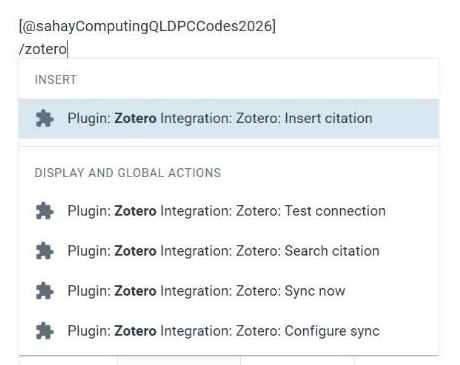
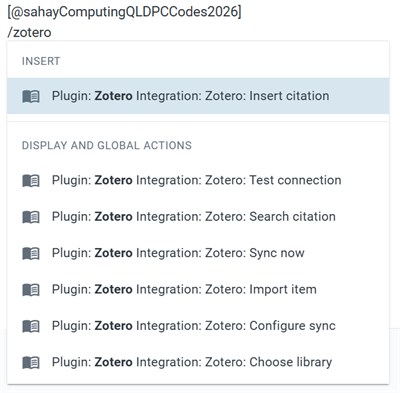
Retake the /zotero menu screenshot with all seven actions
Same framing as the old shot, scaled to 400 px wide (400x393). Swapped into the plugin note's instructions cell in place of the five-action one; checked after a reload: shown at 400 px, still 9 images, code block unchanged.

Changed region(s): [[0.0, 0.0, 0.99, 0.3918], [0.03, 0.5123, 0.96, 0.9945], [0.03, 0.4219, 0.87, 0.4822]]

diff --git a/docs/plugin-instructions.md b/docs/plugin-instructions.md
@@ -251,7 +251,7 @@ instead of embedding it.
 
 | File | Shows | Used for |
 |---|---|---|
-| `desktop-00-zotero-menu.png` | `/zotero` on desktop: Insert citation under INSERT, the other four under DISPLAY AND GLOBAL ACTIONS | Where the actions live |
+| `desktop-00-zotero-menu.png` | `/zotero` on desktop: Insert citation under INSERT, the other six under DISPLAY AND GLOBAL ACTIONS (retaken 2026-10-23, 400 px wide) | Where the actions live |
 | `desktop-01-test-connection.png` | The "Connected as …" alert, username and user ID blanked out | Set up |
 | `desktop-02-citation-picker.png` | Results for "zotero": the reference list open, two items | Cite as you write |
 | `desktop-03-synced-item-note.png` | The qLDPC item note: title, tags, Reference, then — after a divider band — Tags, Zotero Notes, the magenta highlight with page, link and comment, and My Notes. Two screens joined; the abstract between them is skipped | Sync your library into notes |
@@ -275,10 +275,16 @@ Notes; the phone one now ends after the highlight. Both are swapped into the plu
 **Cell updated 2026-10-23** for Import item, group libraries, BibTeX, the DOI fields and
 the first-run key prompt — edited in place, block by block, so the nine images were never
 re-uploaded. Checked after a reload: every changed passage present, no old wording left,
-9 images, 11 table rows, code block still byte-for-byte `dist/plugin-paste.js`. Two
-screenshots now lag the text: `desktop-00-zotero-menu` still shows five actions (seven
-now), and `desktop-01-test-connection` shows the settings-page route rather than the
-first-run prompt. Neither is wrong about what it shows; retake them when convenient.
+9 images, 11 table rows, code block still byte-for-byte `dist/plugin-paste.js`.
+`desktop-01-test-connection` shows the settings-page route rather than the first-run
+prompt; it isn't wrong about what it shows, so it stays until a retake is convenient.
+
+**`desktop-00-zotero-menu` retaken 2026-10-23** with all seven actions, same framing as
+before (the citation line, `/zotero`, the menu), and scaled to **400 px wide** (400×393,
+from a 660×648 capture) — the size cap for new screenshots in the cell. Swapped in by
+selecting the old image (a click selects it as a node) and pasting the PNG from the
+clipboard; Amplenote uploads a pasted image itself. Re-checked after a reload: 400 px
+shown, still 9 images, code block unchanged.
 
 How the in-place edit was done, for next time: select the block's text through the DOM,
 put the replacement on the clipboard as **HTML** (`<b>`/`<code>` survive the paste), and
